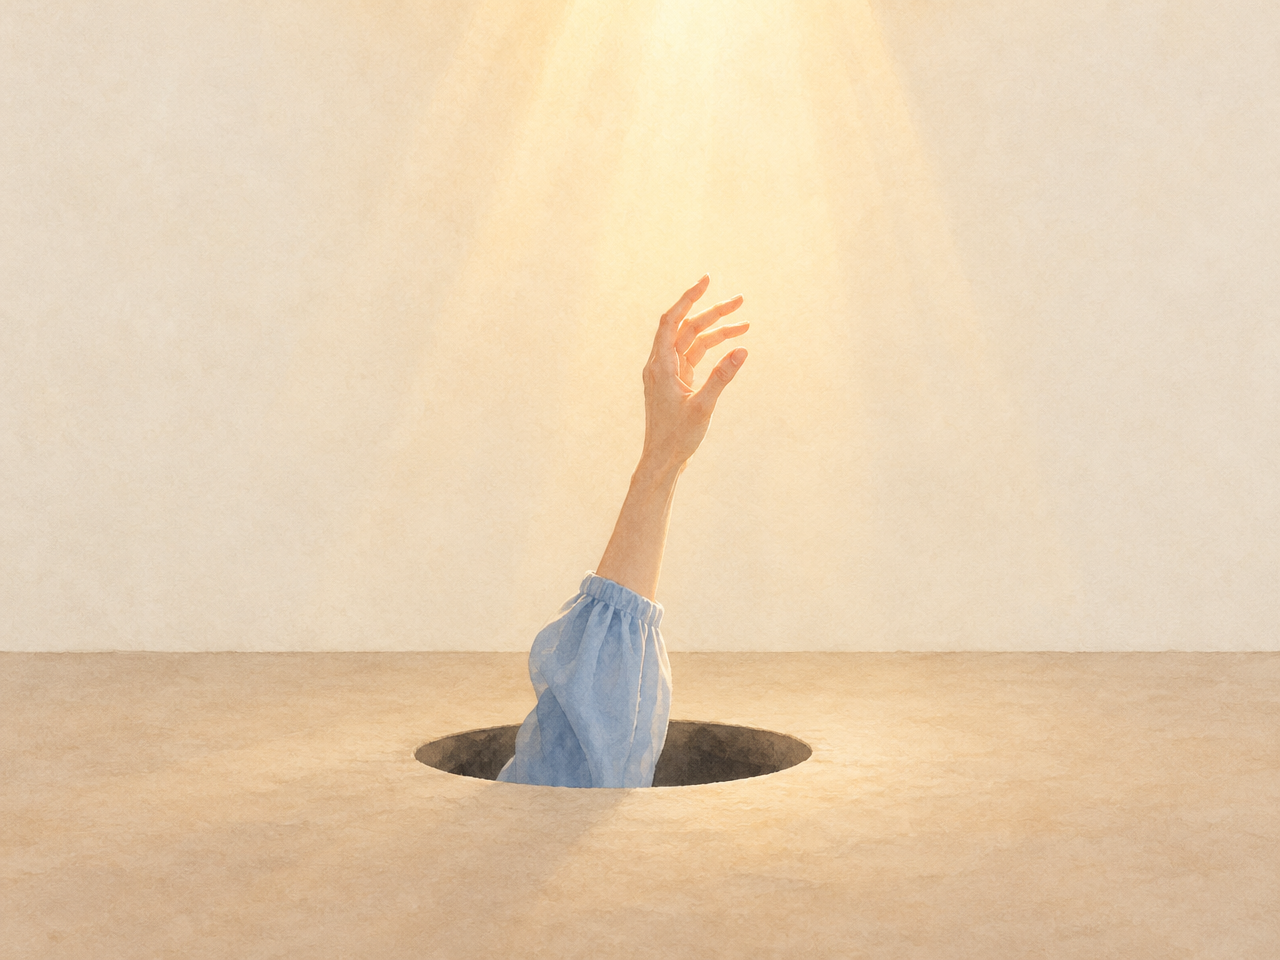
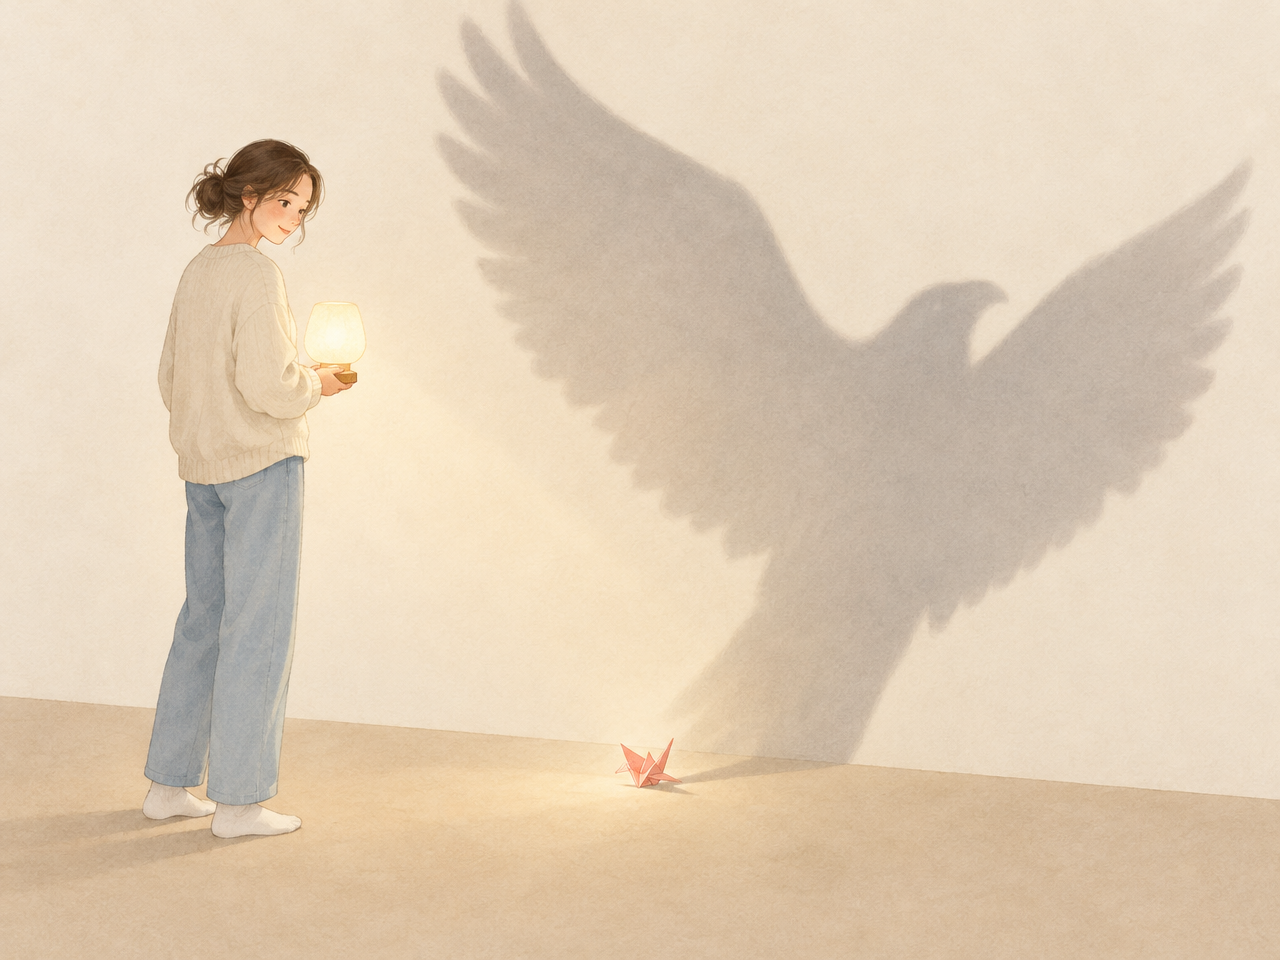
Camaïeu de roses avec footer grège, nouvelle illustration pour les peurs
- Le bleu est remplacé par le vieux rose (boutons RDV) et le nacre (encarts) ; footer neutre grège
- Peurs et blocages : la petite lampe révèle que l'ombre immense vient d'un minuscule oiseau en origami

diff --git a/src/styles/global.css b/src/styles/global.css
@@ -2,16 +2,17 @@
 @import '@fontsource/young-serif';
 @import '@fontsource-variable/figtree';
 
-/* Palette sobre : saumon pastel et bleu poudré (oct. 2026). Aucun bloc sombre, texte encre partout.
-   Contrastes AA : encre sur bleu 7:1, sur ciel, brume et saumon > 9:1 ; cuivre sur crème 5:1. */
+/* Palette sobre en camaïeu de roses : saumon, vieux rose, nacre, et un footer neutre grège (oct. 2026).
+   Aucun bloc sombre, texte encre partout. Contrastes AA : encre sur vieux rose 5,6:1, sur nacre, saumon
+   et grège > 9:1 ; cuivre sur crème 5:1. */
 @theme {
   --color-creme: #faf5ef; /* fond principal */
   --color-sable: #f3e8dc; /* sections alternées, fonds de cartes */
   --color-cuivre: #a5513f; /* saumon profond : accents texte, titres H3, liens, étoiles des avis */
-  --color-bleu: #9fb6cb; /* bleu doux : boutons « Prendre rendez-vous », puces */
-  --color-ciel: #cfdce6; /* bleu pâle : footer */
-  --color-brume: #e3ebf1; /* bleu brume : encarts « En pratique » / RDV */
+  --color-vieux-rose: #d58c7a; /* vieux rose : boutons « Prendre rendez-vous », puces */
+  --color-nacre: #f6dcd4; /* rose pâle : encarts « En pratique » / RDV */
   --color-saumon: #efc3b6; /* saumon pastel : bandeaux (citation, « Envie d'en parler ? ») */
+  --color-greige: #dcd3c9; /* neutre : footer */
   --color-peche: #f5dccb; /* touches décoratives */
   --color-sauge: #a9b8a2; /* touches décoratives */
   --color-encre: #3d3431; /* texte, contour de focus */
@@ -73,7 +74,7 @@
     min-height: 48px;
   }
   .btn-rdv {
-    @apply bg-bleu text-encre hover:bg-[#8aa3ba];
+    @apply bg-vieux-rose text-encre hover:bg-[#c97a67];
   }
   /* Bouton RDV posé sur un bloc coloré (corail, soleil) : fond crème pour qu'il ressorte */
   .btn-rdv.btn-on-color {
@@ -133,7 +134,7 @@
   }
   .card:hover {
     translate: 0 -4px;
-    @apply border-bleu/40 bg-white/60;
+    @apply border-vieux-rose/40 bg-white/60;
   }
   .prose-pauline p + p {
     margin-top: 1rem;

diff --git a/CLAUDE.md b/CLAUDE.md
@@ -106,24 +106,24 @@ scripts/screenshots.mjs
 
 ## Charte graphique
 
-Palette **sobre : saumon pastel et bleu poudré** (oct. 2026 ; le doré a été écarté). Aucun bloc sombre : fonds clairs, texte encre (gris chaud) partout. Photos phares en arche (`.arch`), le reste en `rounded-2xl/3xl`.
+Palette **sobre en camaïeu de roses** (oct. 2026 ; le doré puis le bleu ont été écartés) : saumon, vieux rose, nacre, footer neutre grège. Aucun bloc sombre : fonds clairs, texte encre (gris chaud) partout. Photos phares en arche (`.arch`), le reste en `rounded-2xl/3xl`.
 
 | Token | Hex | Rôle |
 |---|---|---|
 | `creme` | `#faf5ef` | fond principal |
 | `sable` | `#f3e8dc` | sections alternées, fonds de cartes |
 | `cuivre` | `#a5513f` | saumon profond : accents texte, titres H3, liens, étoiles des avis (5:1 sur crème) |
-| `bleu` | `#9fb6cb` | bleu doux : **boutons « Prendre rendez-vous »** (texte encre, 7:1), puces |
-| `ciel` | `#cfdce6` | bleu pâle : footer |
-| `brume` | `#e3ebf1` | bleu brume : encarts « En pratique » / RDV |
+| `vieux-rose` | `#d58c7a` | **boutons « Prendre rendez-vous »** (texte encre, 5,6:1), puces |
+| `nacre` | `#f6dcd4` | rose pâle : encarts « En pratique » / RDV |
 | `saumon` | `#efc3b6` | saumon pastel : bandeau de citation, bandeau « Envie d'en parler ? » |
+| `greige` | `#dcd3c9` | neutre : footer |
 | `peche`, `sauge` | `#f5dccb`, `#a9b8a2` | touches décoratives |
 | `encre` | `#3d3431` | texte, contour de focus |
 
 - **Typo :** `Young Serif` pour les titres et les citations (`font-serif`), `Figtree Variable` pour le texte (`font-sans`). Corps 17 px, interligne 1,65.
 - **À éviter :** labels en MAJUSCULES espacées, mot isolé en couleur ou en italique dans un titre, numérotation 01/02/03 décorative, animations d'entrée sur chaque section, cartes identiques avec ombre grise.
 - **Logo :** `Logo.astro` (cerveau dont l'intérieur est un arbre en feuilles, vectorisé depuis le fichier de Pauline, en `currentColor`) + `public/favicon.svg` (même tracé en pivoine).
-- **Footer :** fond bleu pâle (`ciel`), texte encre, bouton RDV `btn-on-color`. Pas de liste de communes dans le texte (elles restent dans le JSON-LD `areaServed`).
+- **Footer :** fond neutre grège (`greige`), texte encre, bouton RDV vieux rose. Pas de liste de communes dans le texte (elles restent dans le JSON-LD `areaServed`).
 - **Header :** 4 entrées seulement (« Accompagnements » avec menu déroulant CSS des 7 pages au survol / focus, Qui suis-je, Mes écrits, Infos pratiques). « Hypnose et NEMO » et la FAQ sont dans le menu mobile et le footer. Téléphone en icône, bouton « Rendez-vous ». Réseaux sociaux en icônes dans le footer (`SocialIcons.astro`).
 - **Responsive :** la nav desktop apparaît à partir de `xl` (1280 px). En dessous, bouton menu (pages thématiques + sections + FAQ + langue) + icône téléphone. Le header utilise `max-w-7xl`, le contenu `max-w-6xl` (`.wrap`).
 - **Accessibilité :** focus visible (outline argile), lien d'évitement « Aller au contenu », `prefers-reduced-motion` respecté.

diff --git a/docs/prompts-illustrations.md b/docs/prompts-illustrations.md
@@ -29,7 +29,7 @@ Pour garder une série cohérente : générer les 10 dans la même conversation 
 | `stress-anxiete` | Stress et anxiété | She sits cross-legged and patiently untangles a knotted ball of pastel salmon thread on her lap; from her hands the thread becomes a smooth, straight line across the floor. |
 | `gestion-des-emotions` | Émotions envahissantes | Seen from behind, shoulders and head, wearing a cream and sage striped sweater; small symbols float around her head: a heart, a tiny rain cloud, a spark, a spiral. |
 | `souvenirs-douloureux-deuil-separation` | Souvenirs douloureux | Seen from behind, she stands in front of an open door that reveals a bright blue sky with soft clouds; light spills onto the floor. |
-| `phobies-peurs-blocages` | Peurs et blocages | A hand and forearm reach up out of a dark round hole in the floor, toward the light, fingers open. |
+| `phobies-peurs-blocages` | Peurs et blocages | She holds a small glowing lamp; a huge grey bird shadow looms on the wall, but her light reveals it is cast by a tiny pastel salmon origami bird on the floor. She smiles, reassured. |
 | `confiance-en-soi` | Confiance et estime de soi | She stands facing a large round golden mirror; her reflection stands tall and confident with both arms raised. |
 | `sommeil` | Sommeil | She sleeps peacefully on a soft white cloud under a crescent moon and a few stars, in pale night colors. |
 | `arret-tabac-alimentation` | Habitudes à changer | She steps out of a circle drawn on the floor, whose inside is worn by repeated footprints, and walks calmly toward the light. |
@@ -60,7 +60,7 @@ Puis, une scène par message :
 
 1. `stress-anxiete` : She sits cross-legged and patiently untangles a knotted ball of pastel salmon thread on her lap; from her hands the thread becomes a smooth, straight line across the floor.
 2. `souvenirs-douloureux-deuil-separation` : Seen from behind, she stands in front of an open door that reveals a bright blue sky with soft clouds; light spills onto the floor.
-3. `phobies-peurs-blocages` : A hand and forearm reach up out of a dark round hole in the floor, toward the light, fingers open.
+3. `phobies-peurs-blocages` : She holds a small glowing lamp; a huge grey bird shadow looms on the wall, but her light reveals it is cast by a tiny pastel salmon origami bird on the floor. She smiles, reassured.
 4. `confiance-en-soi` : She stands facing a large round golden mirror; her reflection stands tall and confident with both arms raised.
 5. `sommeil` : She sleeps peacefully on a soft white cloud under a crescent moon and a few stars, in pale night colors.
 6. `arret-tabac-alimentation` : She steps out of a circle drawn on the floor, whose inside is worn by repeated footprints, and walks calmly toward the light.
